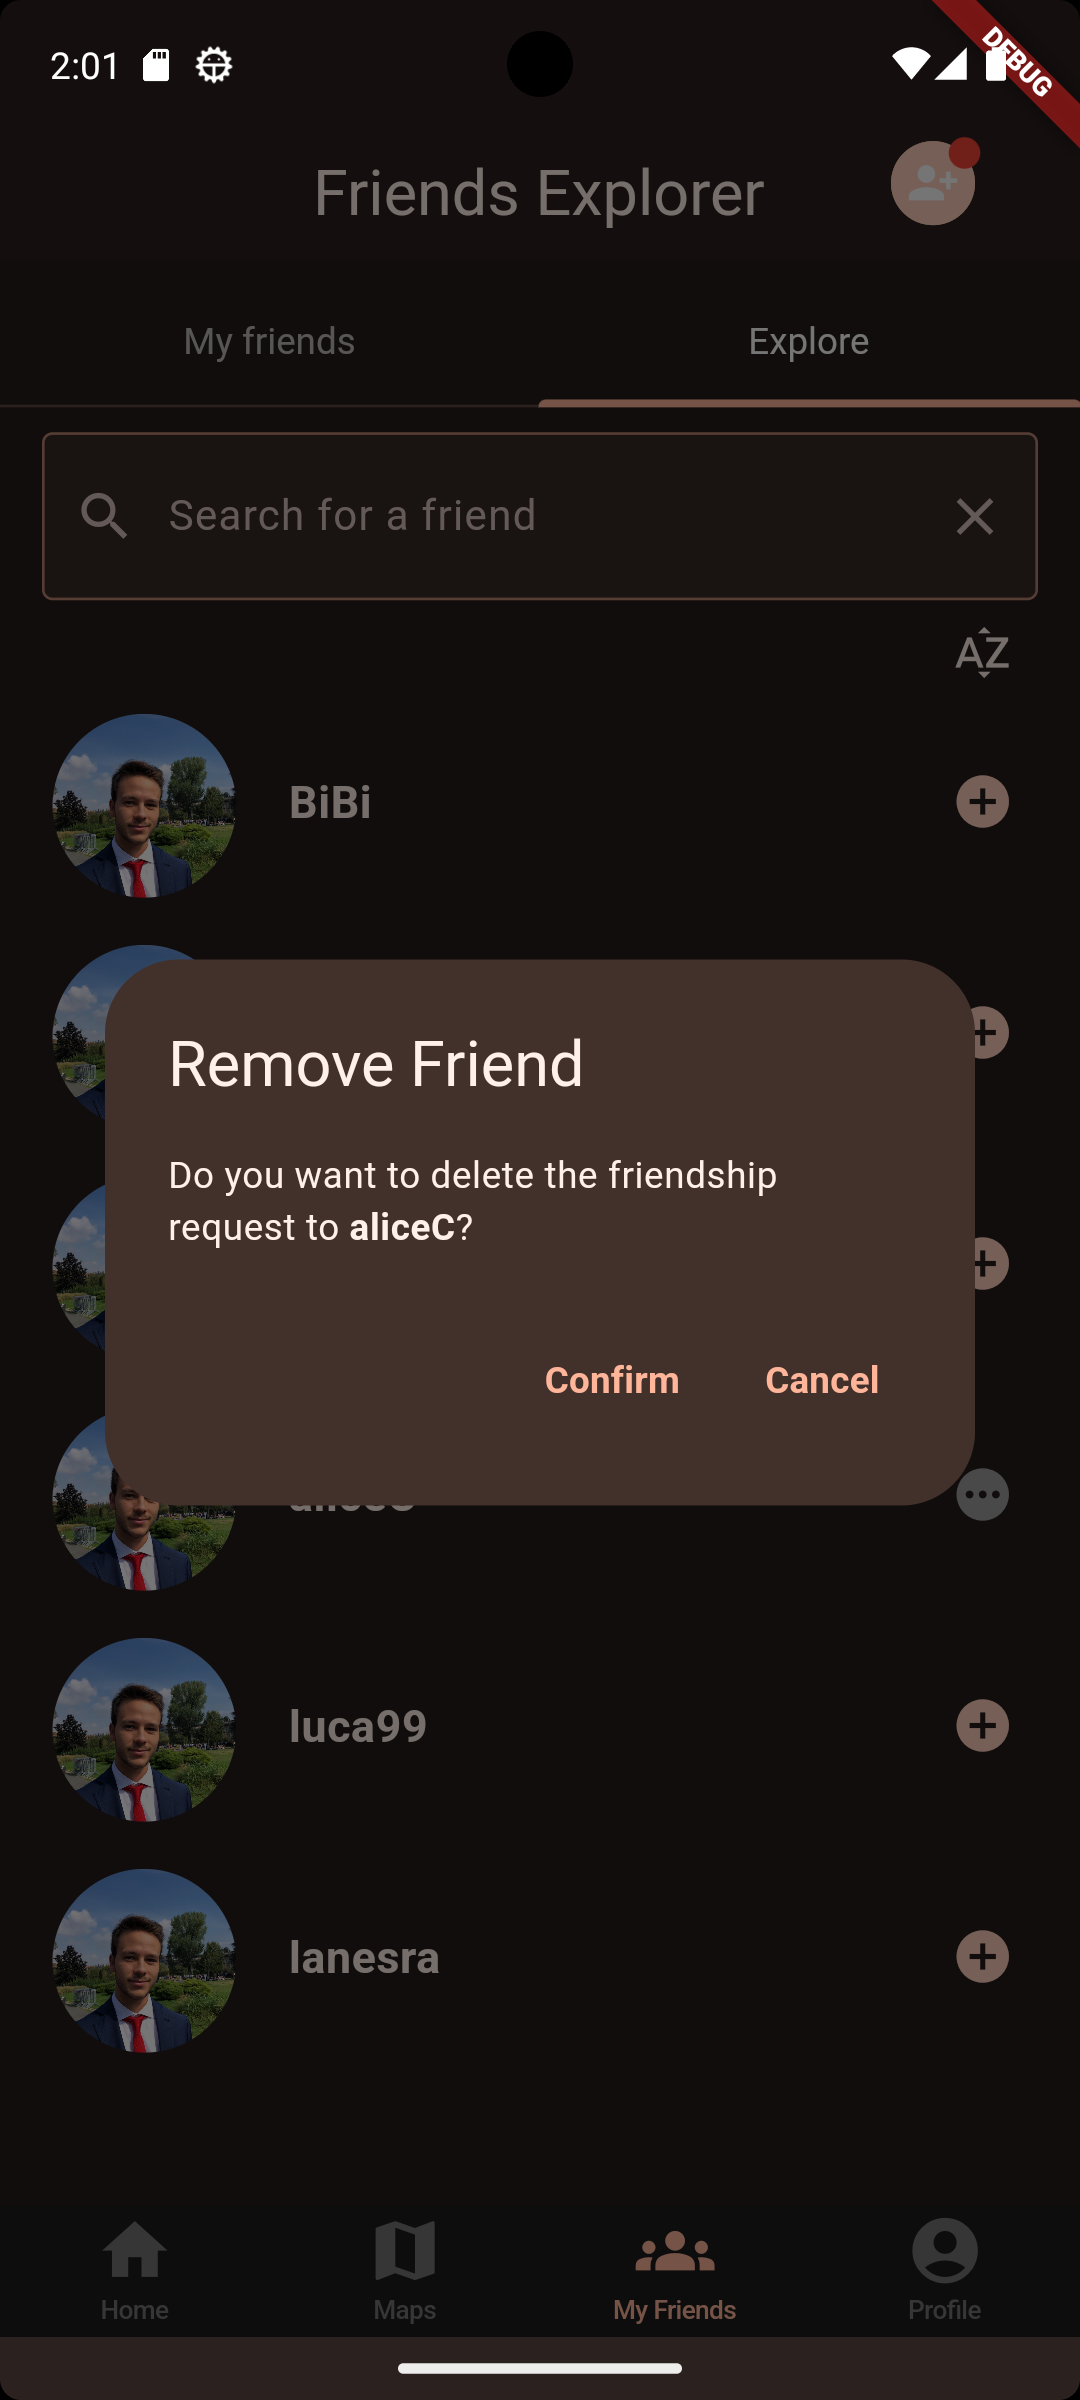
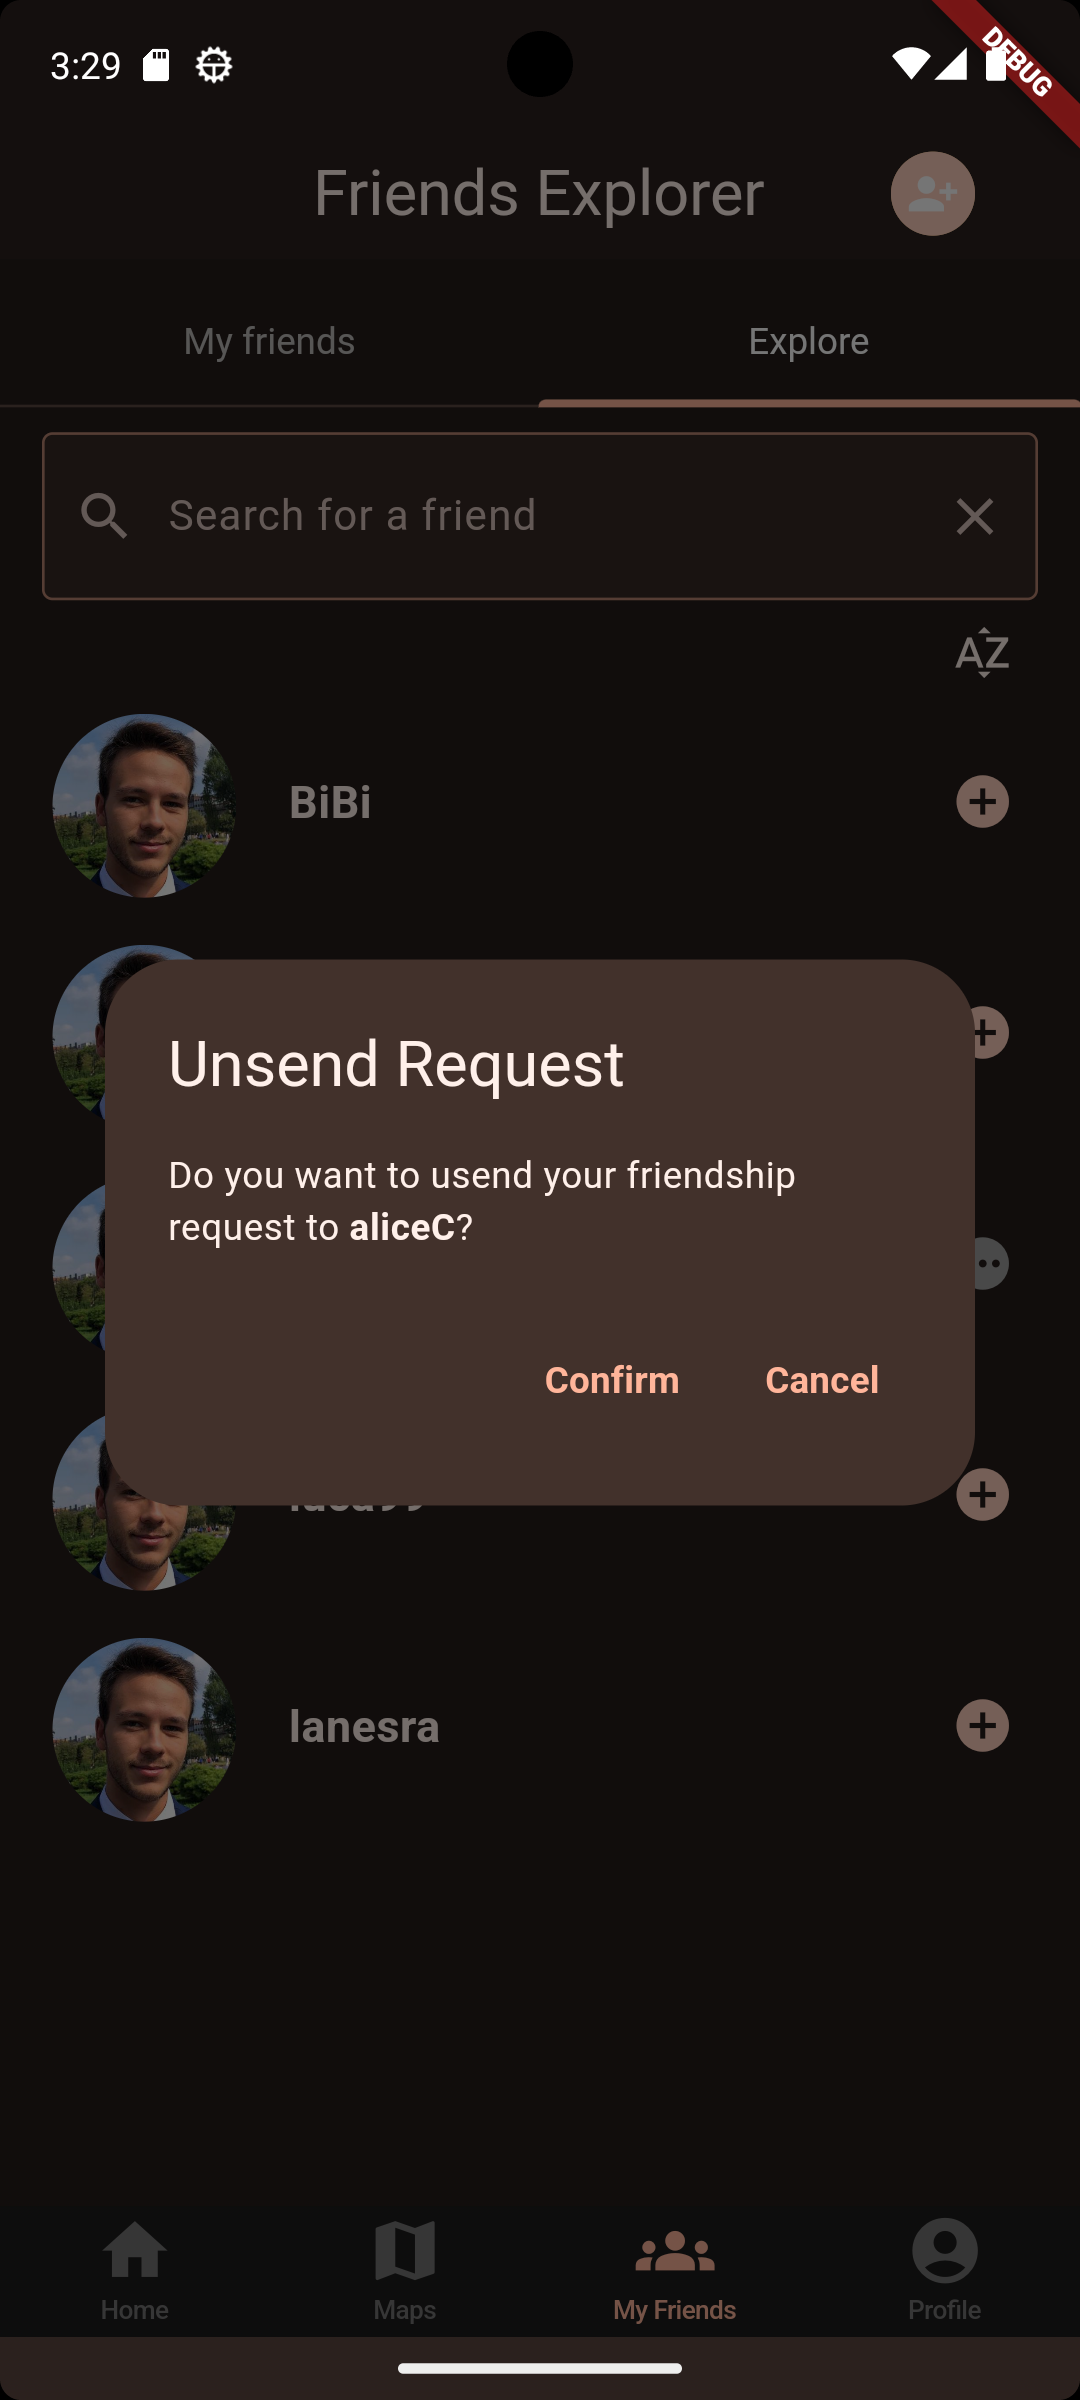
new integration tests in navigations

diff --git a/hobbybuddy/integration_test/navigations.dart b/hobbybuddy/integration_test/navigations.dart
@@ -21,7 +21,67 @@ void main() {
   });
 
   group('general navigation test', () {
-    testWidgets('user can navigate to the friend_list page and refresh screen',
+    testWidgets(
+        'user can navigate to the profile page, open a hobby page, go back, scroll down to see milestones and add one',
+        (tester) async {
+      await app.main();
+      await tester.pumpAndSettle();
+
+      // We are in login, verify that the signup process was successful.
+      final userForm = find.byKey(Key("u_field"));
+      expect(userForm, findsOneWidget);
+      await tester.enterText(userForm, "marta");
+
+      final passwordForm = find.byKey(Key("p_field"));
+      expect(passwordForm, findsOneWidget);
+      await tester.enterText(passwordForm, "12345678");
+
+      await tester.testTextInput.receiveAction(TextInputAction.done);
+      await tester.pumpAndSettle(Duration(seconds: 1));
+
+      final loginButton = find.byKey(Key("go_login"));
+      expect(loginButton, findsOneWidget);
+      await tester.tap(loginButton);
+      await tester.pumpAndSettle(Duration(seconds: 8));
+
+      //go to user home page
+      final userPage = find.byIcon(Icons.account_circle);
+      expect(userPage, findsOneWidget);
+      await tester.tap(userPage);
+      await tester.pumpAndSettle(Duration(seconds: 10));
+
+      final chess = find.byWidgetPredicate((widget) =>
+          widget is Image &&
+          widget.image is AssetImage &&
+          widget.image.toString().contains('Chess.png'));
+      expect(chess, findsOneWidget);
+      await tester.tap(chess);
+      await tester.pumpAndSettle(Duration(seconds: 8));
+
+      await tester.tap(userPage);
+      await tester.pumpAndSettle(Duration(seconds: 10));
+
+      var minFinder = find.text("Mentors").first;
+      const offset = Offset(0, -420);
+      await tester.fling(
+        minFinder,
+        offset,
+        1000,
+        warnIfMissed: false,
+      );
+      await tester.pumpAndSettle(Duration(seconds: 3));
+      final addM = find.text('+ Milestone');
+      expect(addM, findsOneWidget);
+      await tester.tap(addM);
+      await tester.pumpAndSettle(Duration(seconds: 3));
+
+      final mapsPage = find.byIcon(Icons.map);
+      expect(mapsPage, findsOneWidget);
+      await tester.tap(mapsPage);
+      await tester.pumpAndSettle(Duration(seconds: 10));
+    });
+    testWidgets(
+        'user can navigate to the friend_list page, accept a friendship request, refresh screen, send a request, navigate back to My friends and eliminate a friend',
         (tester) async {
       final SemanticsHandle handle = tester.ensureSemantics();
       await app.main();
@@ -55,6 +115,21 @@ void main() {
       await tester.tap(slide);
       await tester.pumpAndSettle(Duration(seconds: 8));
 
+      final req = find.byIcon(Icons.person_add_alt_1);
+      expect(req, findsOneWidget);
+      await tester.tap(req);
+      await tester.pumpAndSettle(Duration(seconds: 3));
+
+      final accept = find.text("Accept");
+      expect(accept, findsOneWidget);
+      await tester.tap(accept);
+      await tester.pumpAndSettle(Duration(seconds: 3));
+
+      final close = find.text("Close");
+      expect(close, findsOneWidget);
+      await tester.tap(close);
+      await tester.pumpAndSettle(Duration(seconds: 3));
+
       var user = find.text("BiBi");
       const offset2 = Offset(0, 300);
       await tester.fling(
@@ -76,11 +151,42 @@ void main() {
           const Duration(seconds: 1)); // finish the indicator settle animation
       await tester.pump(
           const Duration(seconds: 1)); // finish the indicator hide animation
+
+      final send = find.byIcon(Icons.add_circle).first;
+      expect(send, findsOneWidget);
+      await tester.tap(send);
+      await tester.pumpAndSettle(Duration(seconds: 3));
+
+      final send1 = find.text("Send");
+      expect(send1, findsOneWidget);
+      await tester.tap(send1);
+      await tester.pumpAndSettle(Duration(seconds: 3));
+
+      final back = find.text("My friends");
+      expect(back, findsOneWidget);
+      await tester.tap(back);
+      await tester.pumpAndSettle(Duration(seconds: 8));
+
+      final remove = find.byIcon(Icons.person_remove).last;
+      expect(remove, findsOneWidget);
+      await tester.tap(remove);
+      await tester.pumpAndSettle(Duration(seconds: 3));
+
+      final remove1 = find.text("Remove");
+      expect(remove1, findsOneWidget);
+      await tester.tap(remove1);
+      await tester.pumpAndSettle(Duration(seconds: 3));
+
+      final friend = find.text("matteo");
+      expect(friend, findsOneWidget);
+      await tester.tap(friend);
+      await tester.pumpAndSettle(Duration(seconds: 10));
+
       handle.dispose();
     });
 
     testWidgets(
-        'user can navigate to hobby and then to mentor to visualize an available tutorial',
+        'user can navigate to hobby and then to mentor, and like and unlike both on them in the meantime, to visualize an available tutorial',
         (tester) async {
       await app.main();
       await tester.pumpAndSettle();
